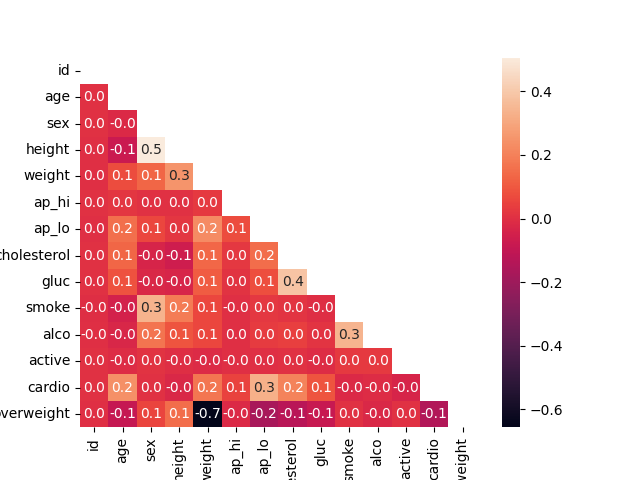
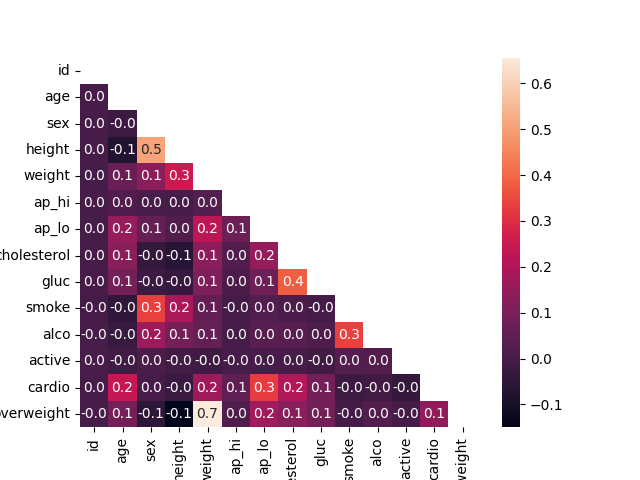
modified:   catplot.png modified:   heatmap.png modified:   medical_data_visualizer.py

diff --git a/medical_data_visualizer.py b/medical_data_visualizer.py
@@ -7,7 +7,7 @@ import numpy as np
 df = pd.read_csv('medical_examination.csv')
 
 # Add 'overweight' column
-df['overweight'] = (df['weight'] / (df['height'] / 100) ** 2 > 25).replace({True: 0, False: 1})
+df['overweight'] = (df['weight'] / (df['height'] / 100) ** 2 > 25).replace({True: 1, False: 0})
 
 # Normalize data by making 0 always good and 1 always bad. If the value of 'cholesterol' or 'gluc' is 1, make the value 0. If the value is more than 1, make the value 1.
 df['cholesterol'] = (df['cholesterol'] > 1).replace({True: 1, False: 0})
